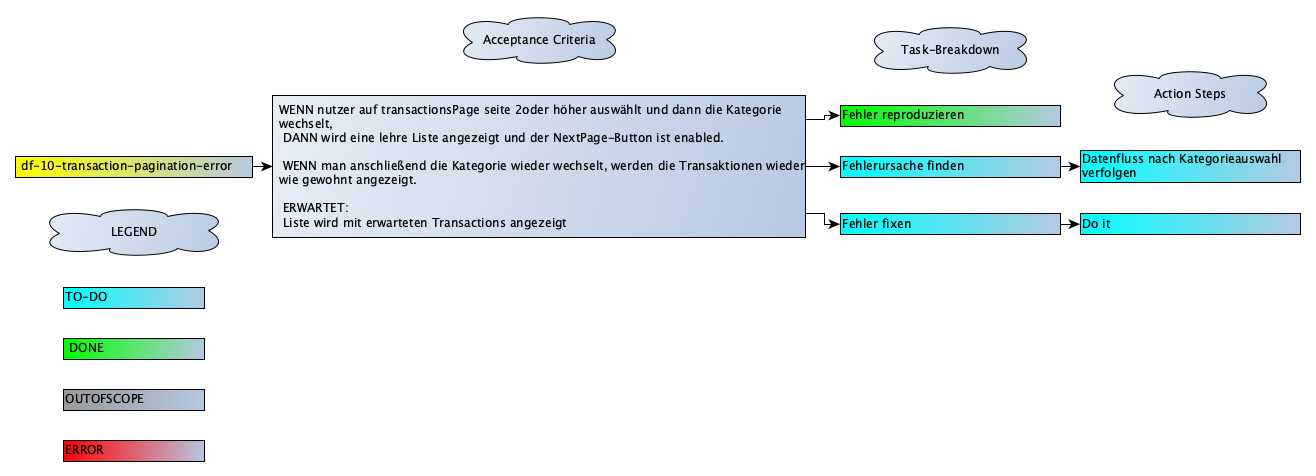
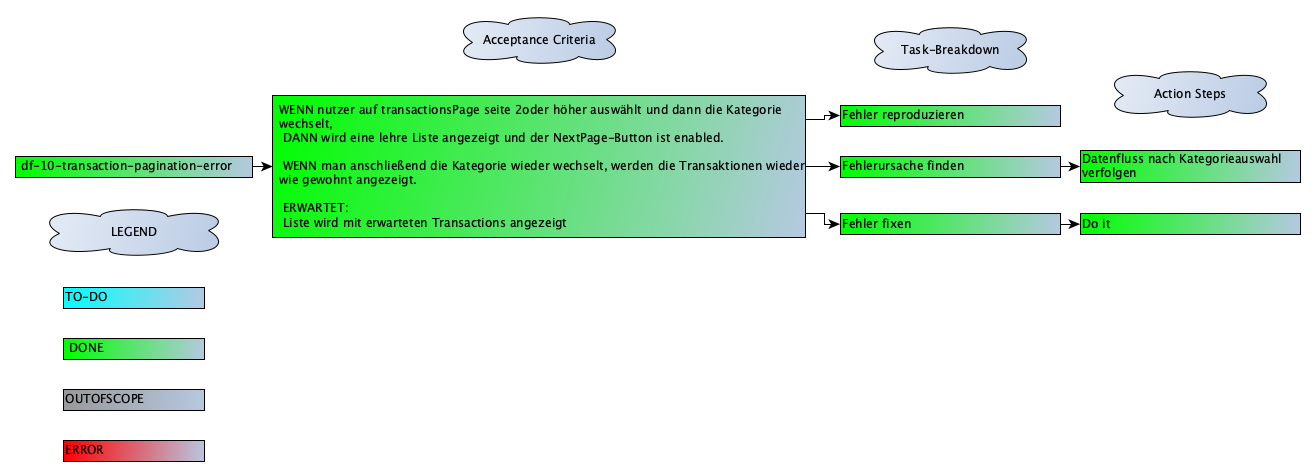
df-10-transaction-pagination-error fix

Changed region(s): [[0.0, 0.1765, 0.6231, 0.5], [0.6231, 0.2941, 0.997, 0.3824], [0.6231, 0.4412, 0.997, 0.5]]

diff --git a/frontend/src/components/transactions/TransactionsDetails.spec.tsx b/frontend/src/components/transactions/TransactionsDetails.spec.tsx
@@ -33,19 +33,26 @@ jest.mock('../searchbar/TransactionsSearchbar', () =>
 jest.mock('./table/TransactionsTable', () =>
   jest.fn(({ currentIndexedTransactions }) => (
     <div data-testid="transactions-table">
-      {currentIndexedTransactions.map((transaction: EPTransaction, index: number) => (
-        <div key={index}>{transaction.name}</div>
-      ))}
+      {currentIndexedTransactions &&
+        currentIndexedTransactions.map((transaction: EPTransaction, index: number) => (
+          <div key={index}>{transaction.name}</div>
+        ))}
     </div>
   ))
 );
 const changedPageIndex = 0;
 jest.mock('./pagination/TransactionsPagination', () =>
   jest.fn(({ changePageIndex }) => (
-    <div
-      data-testid="transactions-pagination"
-      onClick={() => changePageIndex && changePageIndex(changedPageIndex)}
-    ></div>
+    <Fragment>
+      <div
+        data-testid="transactions-pagination"
+        onClick={() => changePageIndex && changePageIndex(changedPageIndex)}
+      ></div>
+      <div
+        data-testid="transactions-pagination-page2"
+        onClick={() => changePageIndex && changePageIndex(1)}
+      ></div>
+    </Fragment>
   ))
 );
 
@@ -170,5 +177,21 @@ describe('TransactionsDetails', () => {
 
     expect(component).toBeInTheDocument();
     expect(TransactionsTable).toHaveBeenLastCalledWith({ currentIndexedTransactions: [] }, {});
+  });
+
+  it('sets pageIndex to 0 if transactions are updated', () => {
+    render(
+      <TransactionsDetails {...testProps} fetchedTransactions={mockedTransactions11Records} />
+    );
+    const goToPage2 = screen.getByTestId('transactions-pagination-page2');
+    fireEvent.click(goToPage2);
+
+    const component = screen.getByTestId('transactions-searchbar');
+    fireEvent.click(component);
+
+    expect(TransactionsPagination).toHaveBeenLastCalledWith(
+      expect.objectContaining({ pageIndex: 0 }),
+      {}
+    );
   });
 });

diff --git a/frontend/src/components/transactions/TransactionsDetails.tsx b/frontend/src/components/transactions/TransactionsDetails.tsx
@@ -16,7 +16,9 @@ const TransactionsDetails = ({ isLoading, fetchedTransactions }: Props) => {
   const pageEntrySize: number = 10;
   const [pageIndex, setPageIndex] = useState<number>(0);
   const [transactionsPaged, setTransactionsPaged] = useState<EPTransaction[][]>([]);
-  const [currentIndexedTransactions, setCurrentIndexedTransactions] = useState<EPTransaction[]>([]);
+  const [currentIndexedTransactions, setCurrentIndexedTransactions] = useState<EPTransaction[]>(
+    fetchedTransactions.slice(0, 10)
+  );
   const [isMaxIndex, setIsMaxIndex] = useState<boolean>(false);
 
   const updateTransactions = (filteredTransactions: EPTransaction[]) => {
@@ -24,11 +26,10 @@ const TransactionsDetails = ({ isLoading, fetchedTransactions }: Props) => {
       filteredTransactions,
       pageEntrySize
     );
-    console.log('newTransactionsPaged', newTransactionsPaged);
     setTransactionsPaged(newTransactionsPaged);
 
     setPageIndex(0);
-    const validValues: EPTransaction[] = newTransactionsPaged.at(pageIndex) as EPTransaction[];
+    const validValues: EPTransaction[] = newTransactionsPaged.at(0) as EPTransaction[];
     setCurrentIndexedTransactions(validValues ?? []);
     setIsMaxIndex(pageIndex === newTransactionsPaged.length - 1);
   };
